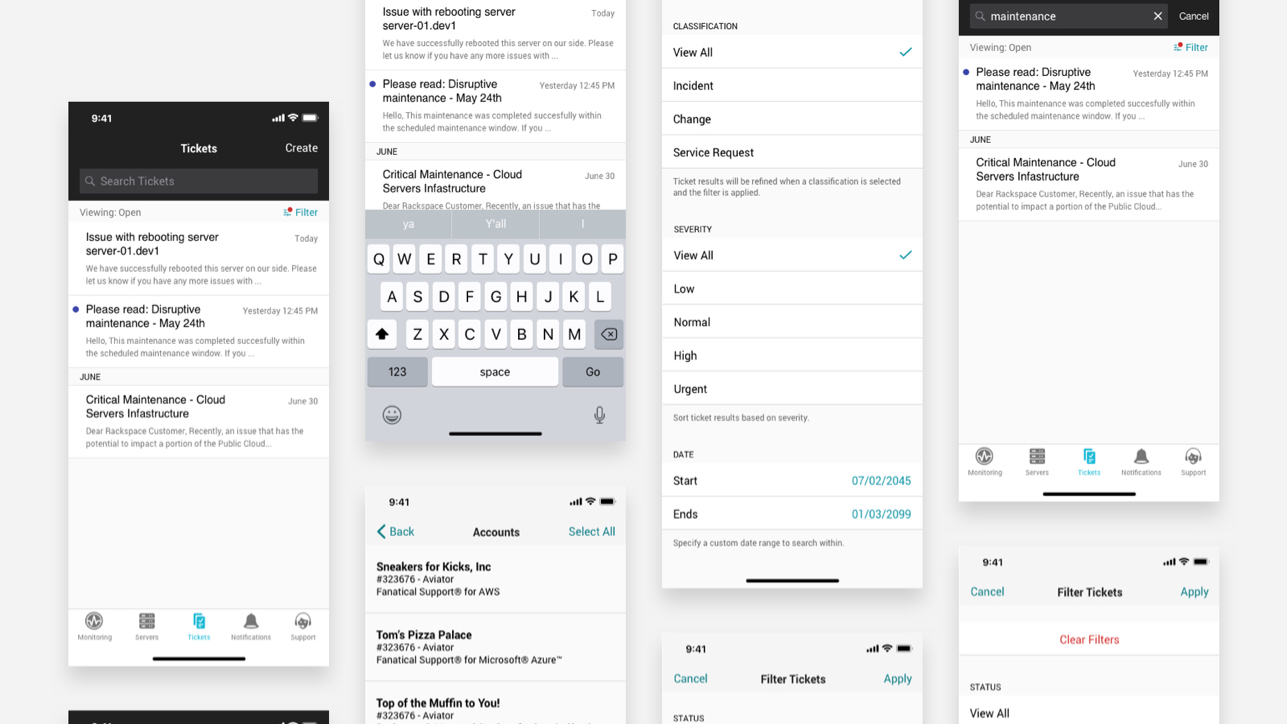
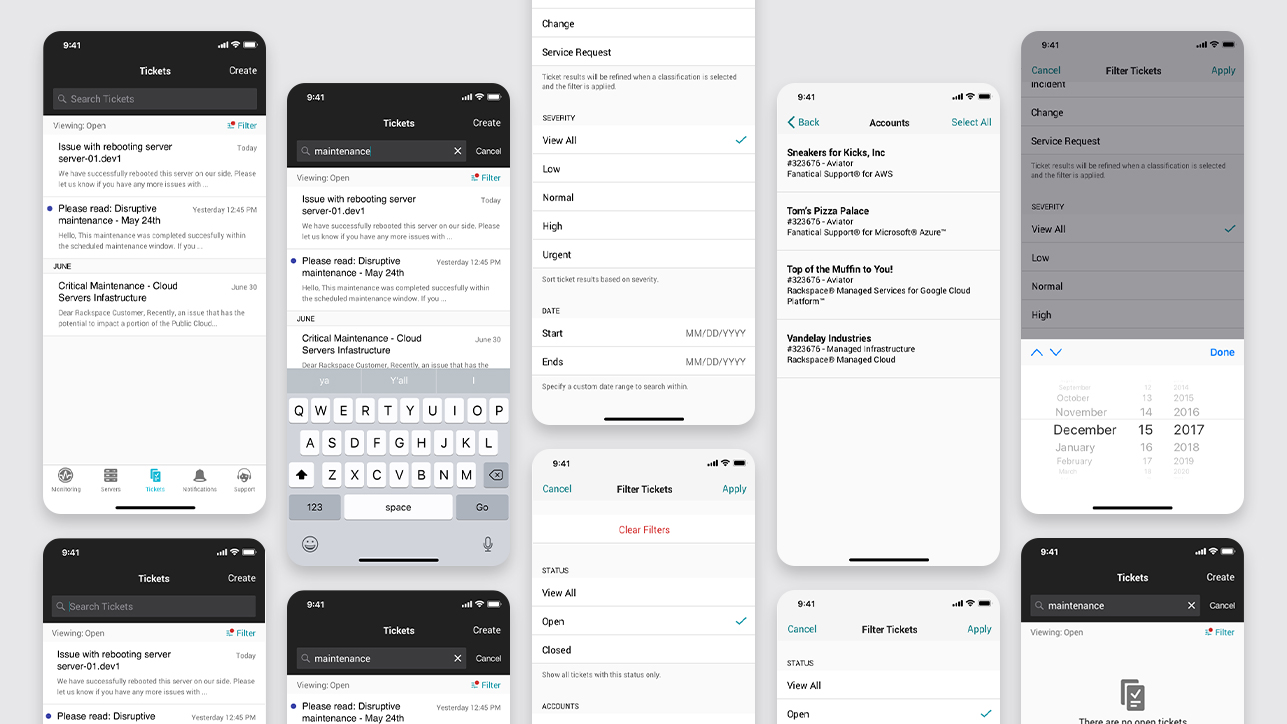
:pencil: Updated copy & Image

diff --git a/rs-search.html b/rs-search.html
@@ -27,10 +27,10 @@
           <img class="logo" src="img/dwm.svg" alt="Daniel Maldonado" />
         </a>
       </header>
-      <h1 class="text-center">Search & Filter Experience</h1>
+      <h1 class="text-center">Improving Search & Filter</h1>
       <figure>
         <img src="img/MOB_Search_Cover.jpg" alt="..." />
-        <figcaption>....</figcaption>
+        <figcaption>Improved Search & Filtering Experience</figcaption>
       </figure>
 
       <p>
@@ -97,8 +97,14 @@
       </ul>
 
       <figure>
-        <img src="img/MOB_Search_Before.jpg" alt="..." />
-        <figcaption>show before screenshot</figcaption>
+        <img
+          src="img/MOB_Search_Before.jpg"
+          alt="Before updating this experience, users used a combination of Search to filter their tickets in different status groups."
+        />
+        <figcaption>
+          Before updating this experience, users used a combination of Search to
+          filter their tickets in different status groups.
+        </figcaption>
       </figure>
 
       <h2>Defining types of data to search & filter</h2>
@@ -139,7 +145,7 @@
         <li><span class="text-bold">Date</span> - Date Picker</li>
       </ul>
 
-      <h2>Conceptualizing Ideas</h2>
+      <h2>Conceptualizing</h2>
       <p>
         Next, was to start taking the research insights and recommendations to
         visually implement a search filter experience that increases our
@@ -155,24 +161,59 @@
       </p>
 
       <figure>
-        <img src="img/MOB_Search_Wireframes.jpg" alt="..." />
-        <figcaption>show wireframes</figcaption>
+        <img
+          src="img/MOB_Search_Wireframes.jpg"
+          alt="A few concepts of low-fidelity concepts to explore how we could improve the search experience for our customers."
+        />
+        <figcaption>
+          A few concepts of low-fidelity concepts to explore how we could
+          improve the search experience for our customers.
+        </figcaption>
       </figure>
 
-      <h2>Search & Filter</h2>
+      <h2>Results</h2>
       <p>
         The ability to apply and clear filters are displayed in a dialog window
         to allow customers a dedicated space to specify their preferences.
+        Search results are refined in the context of the ticket list view where
+        a user can see results related to the search query, along with any
+        filters that may be applied.
       </p>
 
-      <p>
-        As a result, we designed a fully functioning search and filtering
-        experience that helps users find tickets more efficiently.
-      </p>
+      <h2>Key Improvements</h2>
+      <ul>
+        <li>
+          Implemented free form text search that allows users to search for
+          tickets based on keywords or search terms that they remember or are
+          familiar with
+        </li>
+        <li>
+          Search refines tickets shown based on keywords and filters applied
+        </li>
+        <li>
+          Improved filters by providing a list of categories utilizing common UI
+          patterns. No longer a key/value-based filtering system accomplished
+          via search
+        </li>
+        <li>
+          Combined ticketing status and remaining filterable categories into a
+          single UI. No longer two different places to make these adjustments
+        </li>
+        <li>
+          Save screen space by removing pills and showing filter options in the
+          dialog
+        </li>
+      </ul>
 
       <figure>
-        <img src="img/MOB_Search_Mockups.jpg" alt="..." />
-        <figcaption>show mockups</figcaption>
+        <img
+          src="img/MOB_Search_Mockups.jpg"
+          alt="The final solution now includes a keyword search that works collaboratively with a consolidated filtering system."
+        />
+        <figcaption>
+          The final solution now includes a keyword search that works
+          collaboratively with a consolidated filtering system.
+        </figcaption>
       </figure>
 
       <h2>Outcome</h2>
@@ -181,7 +222,7 @@
         experience that helps users find tickets more efficiently.
       </p>
       <ul>
-        <li>Created clear guidelines of which types of data can be filtered</li>
+        <li>Clear understanding of which types of data can be filtered</li>
         <li>
           Allows for typing keywords and strings that users identify tickets by
         </li>
